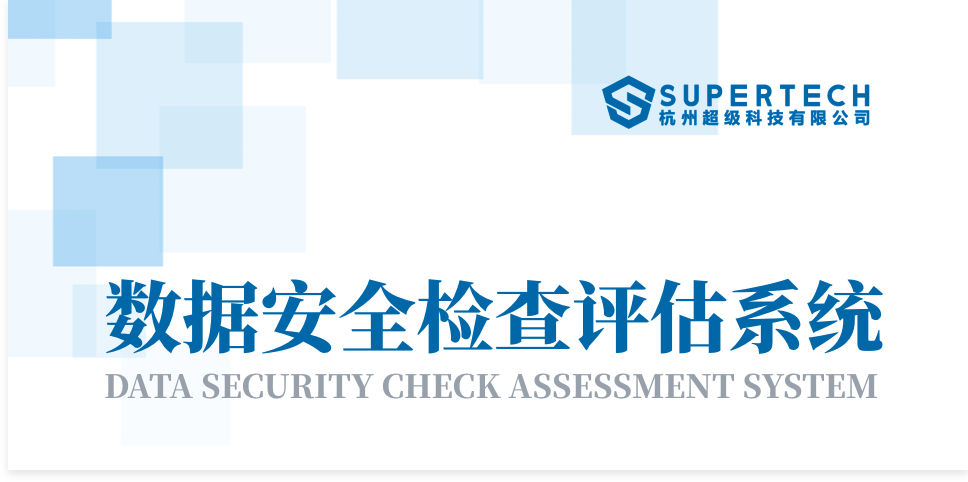
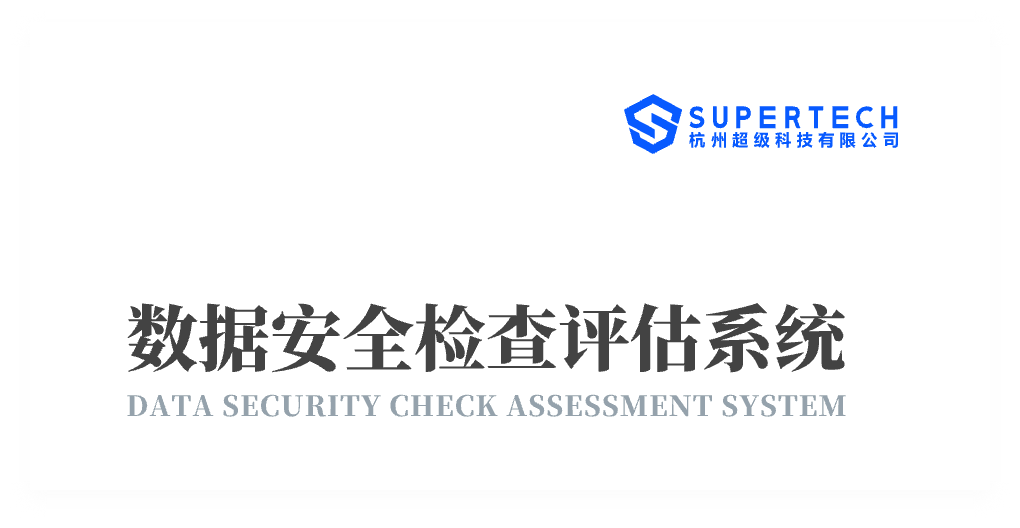
解决登出event没有clientId

Changed region(s): [[0.0, 0.0, 0.9298, 0.8402], [0.5888, 0.0, 0.8988, 0.3112], [0.3409, 0.0, 0.5269, 0.1867]]

diff --git a/themes/src/main/resources/theme/base/login/super-com.html b/themes/src/main/resources/theme/base/login/super-com.html
@@ -2,7 +2,7 @@
 <html>
     <head>
         <meta charset="utf-8" />
-        <title>超·自合</title>
+        <title>数据安全检查评估系统</title>
         <link rel="stylesheet" href="/resources/jxuks/login/keycloak/css/element-ui.css" />
         <script src="/resources/jxuks/login/keycloak/js/vue.min.js"></script>
         <script src="/resources/jxuks/login/keycloak/js/index.js"></script>
@@ -19,7 +19,9 @@
             .login-container {
                 height: 100%;
                 min-height: 550px;
-                background-image: url('/resources/jxuks/login/keycloak/img/keycloak-super-com-bg.gif');
+                /* background-image: url('/resources/jxuks/login/keycloak/img/keycloak-super-com-bg.gif'); */
+                /* background-image: url('./assets/keycloak-bg.png'); */
+                background-image: url('/resources/jxuks/login/keycloak/img/keycloak-leftbg.png');
                 background-size: 100% 100%;
                 background-size: cover;
             }
@@ -40,10 +42,27 @@
             }
 
             .login-left {
-                width: 800px;
-                margin-right: 10px;
-                padding-top: 300px;
-                padding-left: 275px;
+                /* width: 800px; */
+                /* margin-right: 10px; */
+                /* padding-top: 300px; */
+                /* padding-left: 275px; */
+                flex: 1;
+                position: relative;
+            }
+            .login-left-img {
+                width: 576px;
+                height: 593px;
+                position: absolute;
+                top: 14%;
+                left: 50%;
+                margin-left: -288px;
+            }
+            .login-left-text {
+                width: 680px;
+                position: absolute;
+                bottom: 4%;
+                left: 50%;
+                margin-left: -340px;
             }
 
             .login-form {
@@ -105,7 +124,7 @@
             .form-group .pf-m-primary {
                 text-indent: 0;
                 cursor: pointer;
-                background: #0068a9;
+                background: #085aff;
                 border-radius: 4px;
                 color: #fff;
                 height: 40px;
@@ -188,9 +207,10 @@
                 width: 100%;
                 height: 241px;
                 background: url('/resources/jxuks/login/keycloak/img/keycloak-top-bg.png');
+                /* background: url('./assets/keycloak-top-bg.png'); */
                 background-size: cover;
                 position: relative;
-                box-shadow: 0px 2px 4px 0px rgba(0, 0, 0, 0.1);
+                /* box-shadow: 0px 2px 4px 0px rgba(0, 0, 0, 0.1); */
             }
 
             .login-form-right {
@@ -277,8 +297,20 @@
             <div class="login-container flx-center">
                 <div class="login-box">
                     <div class="login-left">
-                        <div class="left-text">数据安全检查评估系统</div>
-                        <div class="left-subtext">让信任成为你的竞争优势</div>
+                        <img
+                            src="/resources/jxuks/login/keycloak/img/keycloak-bgTop.png"
+                            class="login-left-img"
+                            alt=""
+                        />
+                        <img
+                            class="login-left-text"
+                            src="/resources/jxuks/login/keycloak/img/keycloak-text.png"
+                            alt=""
+                        />
+                        <!-- <img src="./assets/keycloak-bgTop.png" class="login-left-img" alt="" />
+                        <img class="login-left-text" src="./assets/keycloak-text.png" alt="" /> -->
+                        <!-- <div class="left-text">数据安全检查评估系统</div>
+                        <div class="left-subtext">让信任成为你的竞争优势</div> -->
                     </div>
                     <div class="login-form-right">
                         <div class="login-logo"></div>

diff --git a/services/src/main/java/org/keycloak/protocol/oidc/OIDCLoginProtocol.java b/services/src/main/java/org/keycloak/protocol/oidc/OIDCLoginProtocol.java
@@ -378,6 +378,7 @@ public class OIDCLoginProtocol implements LoginProtocol {
     @Override
     public Response finishBrowserLogout(UserSessionModel userSession, AuthenticationSessionModel logoutSession) {
         event.event(EventType.LOGOUT);
+        event.client(logoutSession.getClient().getClientId());
 
         String redirectUri = logoutSession.getAuthNote(OIDCLoginProtocol.LOGOUT_REDIRECT_URI);
         if (redirectUri != null) {
